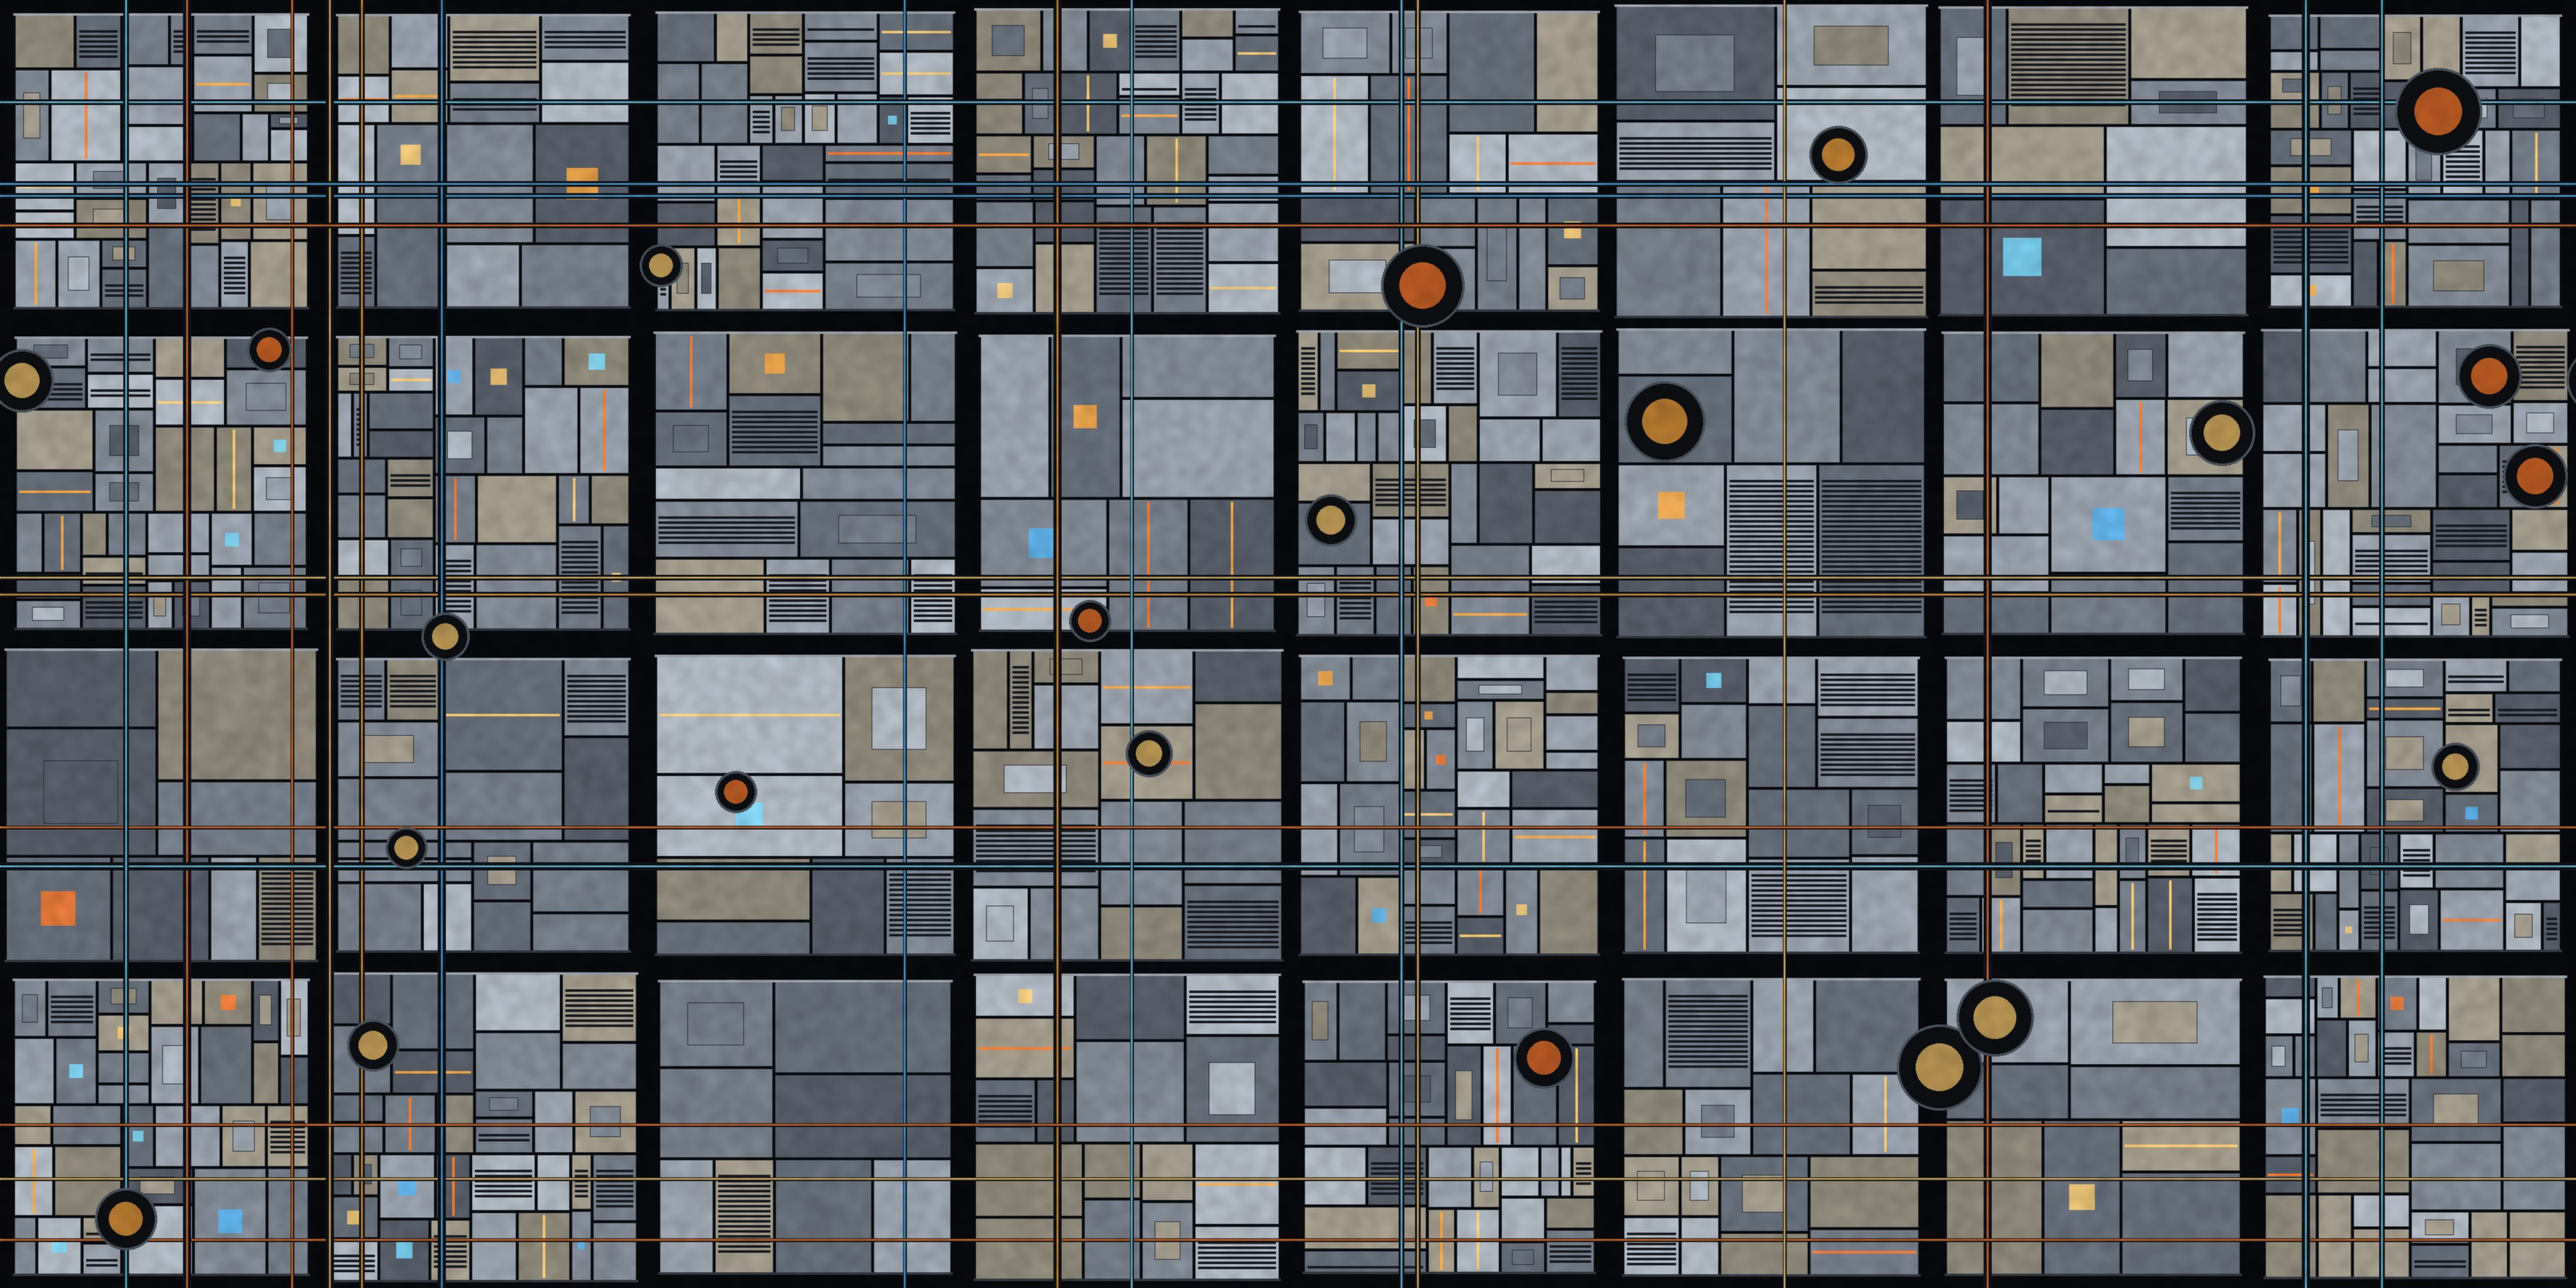
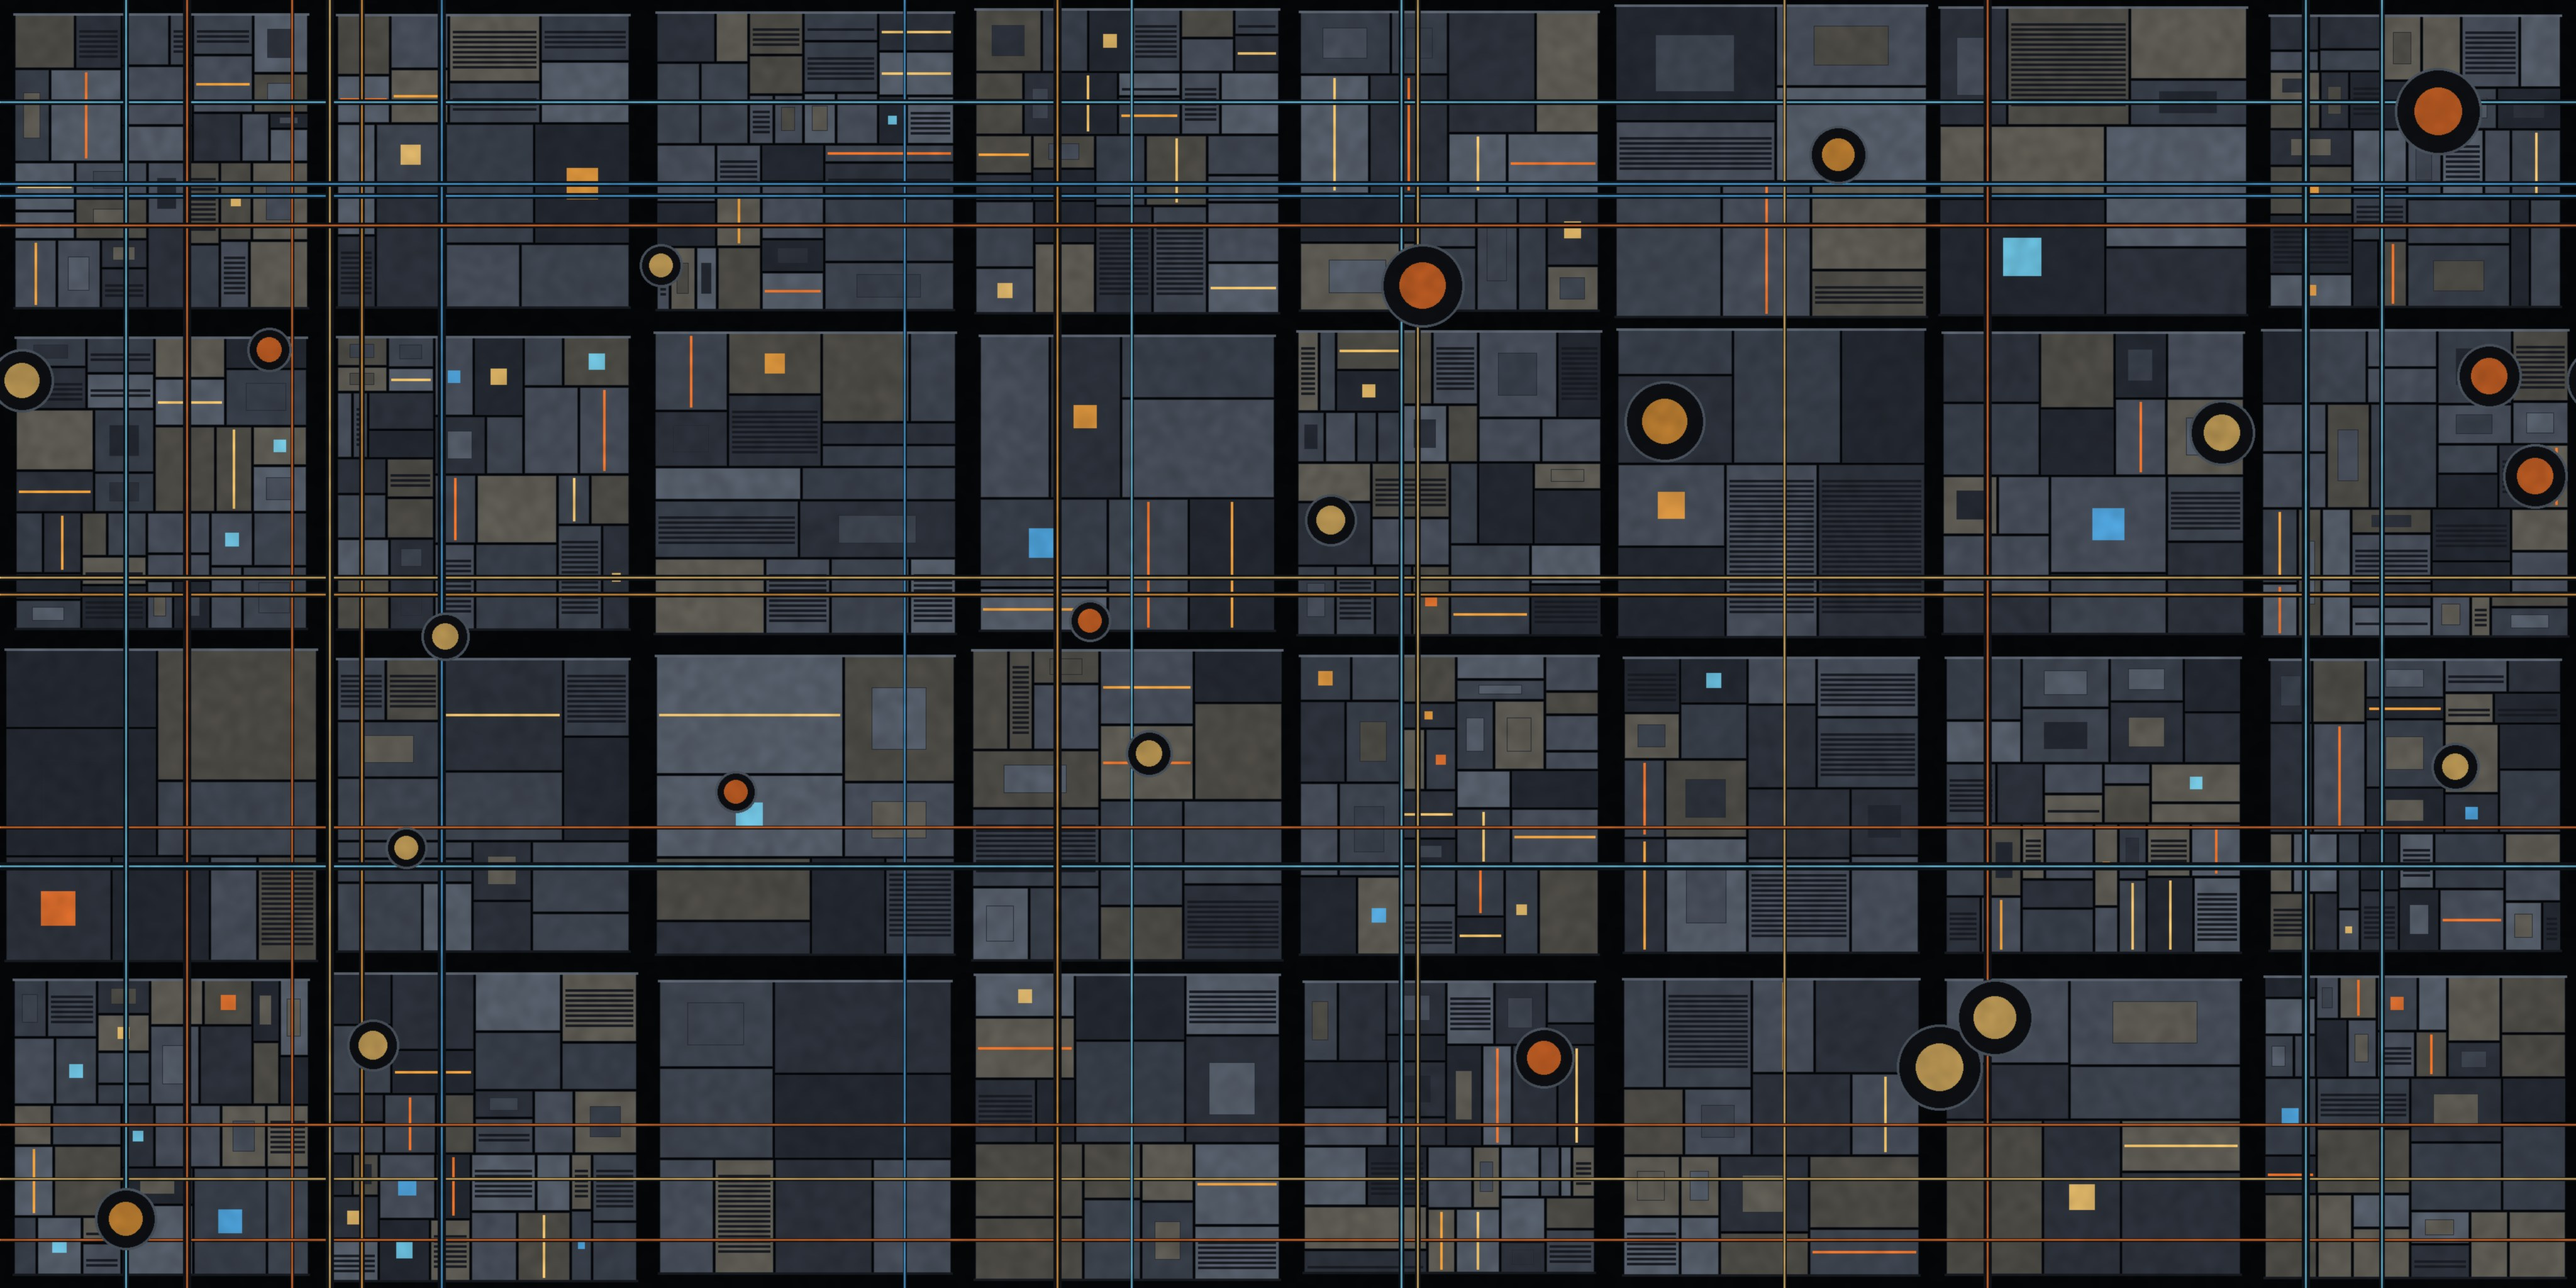
Breakout: Cybertron as geometry, not as a picture; letters keep only a thruster
You sent the reference and said the textures were all terrible. They were. What
makes that picture read as a machine world is SILHOUETTE - domes, stepped ring
terraces and towers standing proud of the sphere, catching a cold light and
throwing shadow, so the limb is a skyline instead of a smooth ball. No texture
can do that, which is why every attempt looked like a circuit board wrapped on
a ball.

So the surface now carries real geometry: a thousand plated blocks, 260 stacks,
900 lamp strips, eleven hub complexes of stepped terraces with lit rims round a
chunky tower, and four structural bands round the whole world. Placement is a
Fibonacci sphere jittered by a seeded generator, so the same world comes back
every run. Everything is built at unit radius and scaled with the sphere, so it
survives the radius solve and a resize. Three InstancedMesh calls carry the
thousand small pieces.

The drawn map is demoted to the plating between the structures and redrawn dark
gunmetal, and the scene's rim light goes from violet to cold steel-blue - violet
on bare metal is what made the last one look purple and plastic.

Letters lose the drone ring, at RJ's word: one thruster behind the glyph,
stretching and flickering as it flies, nothing else.

Verified: 22 detail groups scaled to the solved radius, 154k triangles, a 70 s
bot run with the boss up, no NaN and no console errors from the game.

diff --git a/games/resume-arkanoid.html b/games/resume-arkanoid.html
@@ -183,7 +183,7 @@ camera.lookAt(0, 2, 0);
 
 scene.add(new THREE.AmbientLight(0x8fb0d4, 1.75));   // was 0x4a6a8a @ 0.9 - letters read as grey
 const key = new THREE.DirectionalLight(0xffffff, 1.85); key.position.set(6,-4,14); scene.add(key);
-const rim = new THREE.PointLight(0x7c4dff, 1.9, 90); rim.position.set(-10, 12, 10); scene.add(rim);
+const rim = new THREE.PointLight(0x9ec8ff, 2.2, 90); rim.position.set(-10, 12, 10); scene.add(rim);
 // A warm fill from below so glyph faces are not lit from one side only. Extruded letterforms
 // with a single key light lose their whole shadowed half, which is most of why they looked flat
 // AND dim at the same time.
@@ -934,7 +934,7 @@ function raiderMesh(ch){
     color:0xff8a7a, emissive:0x5a1410, emissiveIntensity:0.9,
     roughness:0.35, metalness:0.35, flatShading:true }));
   g.add(letter);
-  const ch2 = droneChassis(); ch2.scale.setScalar(0.85); g.add(ch2); g.userData.chassis = ch2;
+  const ch2 = droneChassis(); ch2.scale.setScalar(0.9); g.add(ch2); g.userData.chassis = ch2;
   return g;
 }
 
@@ -983,7 +983,9 @@ function runRisers(dt){
    cool and open; divers pull the fog in and push it red. This is the
    "backgrounds that go with the moment" ask, driven by game state rather than by a soundtrack. */
 const MOOD = {
-  calm:  { fog: 0x16233a, dens: 0.009, rim: 0x7c4dff, rimI: 1.9 },
+  // The rim was violet, and violet on bare steel reads as plastic - it was what made the machine
+  // world look purple. Cold steel-blue, the light in the Cybertron reference. RJ 2026-09-06.
+  calm:  { fog: 0x16233a, dens: 0.009, rim: 0x9ec8ff, rimI: 2.2 },
   raid:  { fog: 0x2a1626, dens: 0.013, rim: 0xff5a6e, rimI: 2.6 }
 };
 const _fogC = new THREE.Color(), _rimC = new THREE.Color();
@@ -1448,17 +1450,13 @@ const haloPool = [], dronePool = [];
 // RJ: "upgrade the look of the letters to be cooler and more like flying drones." A chassis: a
 // dark ring round the letter, two engine glows, a running light. Pooled; a letter wears one
 // while it flies and sheds it as it locks into its slot. A diver keeps its own for good.
-let RING_GEO_D = null, RING_MAT_D = null;
+/* RJ 2026-09-06: "I don't like the rings around the letters - go back to the letters how they
+   just had a thruster." So: no chassis ring, no running light. One engine flame behind the
+   letter, stretched along its travel and flickering. */
 function droneChassis(){
-  if(!RING_GEO_D){ RING_GEO_D = new THREE.TorusGeometry(1.15, 0.09, 8, 28);
-    RING_MAT_D = new THREE.MeshStandardMaterial({ color:0x2a3440, emissive:0x101820, roughness:0.4, metalness:0.8, flatShading:true }); }
   const g = new THREE.Group();
-  const ring = new THREE.Mesh(RING_GEO_D, RING_MAT_D); g.add(ring); g.userData.ring = ring;
-  for(const sx of [-1.25, 1.25]){
-    const eng = sprite(0x7fe0ff, 0.9); eng.scale.set(0.9, 0.9, 1); eng.position.set(sx, -0.2, 0); g.add(eng);
-  }
-  const light = sprite(0xff5a4d, 0.9); light.scale.set(0.5, 0.5, 1); light.position.set(0, 1.35, 0.2); g.add(light);
-  g.userData.light = light;
+  const flame = sprite(0x8fd7ff, 0.95); flame.scale.set(1.0, 2.0, 1); flame.position.set(0, -1.15, 0);
+  g.add(flame); g.userData.flame = flame;
   return g;
 }
 function takeDrone(){ if(dronePool.length){ const d = dronePool.pop(); d.visible = true; return d; } const d = droneChassis(); board.add(d); return d; }
@@ -1493,7 +1491,10 @@ function updateTrail(L, M){
   L.drone.rotation.set(M.rotation.x * 0.5, t * 4 + L.ci, M.rotation.z * 0.5);
   const ds = M.scale.x / (CH_W * 0.92);
   L.drone.scale.setScalar(Math.max(0.35, ds));
-  L.drone.userData.light.material.opacity = 0.5 + 0.5 * Math.sin(t * 18 + L.ci);
+  const fl = L.drone.userData.flame;
+  fl.material.opacity = 0.7 + 0.3 * Math.sin(t * 24 + L.ci);
+  fl.scale.set(1.0, 1.7 + 0.6 * Math.sin(t * 19 + L.ci), 1);
+  fl.material.color.setHex(L.turret ? 0xffb08a : 0x8fd7ff);
 }
 
 // One letter's frame in flight. Returns true while it is still flying.
@@ -1596,6 +1597,113 @@ const ARMY_MAT = new THREE.MeshStandardMaterial({ color:0x3b4f69, map:HULL, emis
   roughness:0.6, metalness:0.55, flatShading:true, fog:false });
 const _w = new THREE.Vector3(), _w2 = new THREE.Vector3(), _q = new THREE.Quaternion(), Z_AXIS = new THREE.Vector3(0, 0, 1);
 
+/* CYBERTRON, IN GEOMETRY - RJ 2026-09-06, with the reference picture: "Cybertron is a super
+   advanced planet, mechanised."
+
+   A texture cannot do this. What makes that reference read as a machine world is SILHOUETTE:
+   domes and ring terraces and spires standing proud of the sphere, catching a cold light and
+   throwing shadow, so the limb is a jagged skyline rather than a smooth ball. So the surface
+   carries real geometry - about fourteen hundred structures - and the drawn map underneath is
+   demoted to the plating between them.
+
+   Everything is built at UNIT radius and scaled with the sphere, so it survives the radius
+   solve in placePlanet() and a resize. Three InstancedMesh calls carry the thousand small
+   pieces; the hubs and bands are a handful of real meshes. Placement is a Fibonacci sphere
+   (even coverage, no clumps at the poles) jittered by a SEEDED generator, so the same world
+   comes back every run and a screenshot is reproducible. */
+function seeded(n){ let s = n >>> 0; return () => (s = (Math.imul(s, 1664525) + 1013904223) >>> 0) / 4294967296; }
+function fibDirs(n){
+  const out = [], off = 2 / n, inc = Math.PI * (3 - Math.sqrt(5));
+  for(let i = 0; i < n; i++){
+    const y = i * off - 1 + off / 2, r = Math.sqrt(Math.max(0, 1 - y * y)), phi = i * inc;
+    out.push(new THREE.Vector3(Math.cos(phi) * r, y, Math.sin(phi) * r));
+  }
+  return out;
+}
+function buildPlanetDetail(){
+  const g = new THREE.Group();
+  const rnd = seeded(20260906);
+  const hull = new THREE.MeshStandardMaterial({ color:0x5d6675, metalness:0.92, roughness:0.34, flatShading:true, fog:false });
+  const dark = new THREE.MeshStandardMaterial({ color:0x39404b, metalness:0.88, roughness:0.5,  flatShading:true, fog:false });
+  const lit  = new THREE.MeshBasicMaterial({ color:0x8fdcff, fog:false });
+  const m4 = new THREE.Matrix4(), q = new THREE.Quaternion(), v = new THREE.Vector3(), sc = new THREE.Vector3();
+  const place = (mesh, i, d, w, dpt, h, lift) => {
+    q.setFromUnitVectors(Z_AXIS, d);
+    v.copy(d).multiplyScalar(1 + (lift || 0) + h / 2);
+    sc.set(w, dpt, h);
+    m4.compose(v, q, sc);
+    mesh.setMatrixAt(i, m4);
+  };
+
+  // ---- the mass of it: blocks, in two sizes, all over
+  const dirs = fibDirs(4200);
+  const BLOCKS = 1000;
+  const blocks = new THREE.InstancedMesh(new THREE.BoxGeometry(1, 1, 1), hull, BLOCKS);
+  for(let i = 0; i < BLOCKS; i++){
+    const d = dirs[Math.floor(rnd() * dirs.length)];
+    const w = 0.010 + rnd() * 0.030;
+    place(blocks, i, d, w, w * (0.45 + rnd() * 0.9), 0.005 + rnd() * rnd() * 0.045, 0);
+  }
+  blocks.instanceMatrix.needsUpdate = true; g.add(blocks);
+
+  // ---- spires and stacks: the things that break the horizon
+  const TOWERS = 260;
+  const tg = new THREE.CylinderGeometry(0.34, 0.5, 1, 6); tg.rotateX(Math.PI / 2);
+  const towers = new THREE.InstancedMesh(tg, dark, TOWERS);
+  for(let i = 0; i < TOWERS; i++){
+    const d = dirs[Math.floor(rnd() * dirs.length)];
+    const w = 0.008 + rnd() * 0.016;
+    place(towers, i, d, w, w, 0.022 + rnd() * 0.042, 0);   // shorter: they were reading as antennae
+  }
+  towers.instanceMatrix.needsUpdate = true; g.add(towers);
+
+  // ---- lights in the works: tiny emissive plates, the "advanced" read at distance
+  const LAMPS = 900;
+  const lamps = new THREE.InstancedMesh(new THREE.BoxGeometry(1, 1, 1), lit, LAMPS);
+  for(let i = 0; i < LAMPS; i++){
+    const d = dirs[Math.floor(rnd() * dirs.length)];
+    const w = 0.0016 + rnd() * 0.004;
+    place(lamps, i, d, w, w * (1 + rnd() * 6), 0.001, 0.004 + rnd() * 0.02);
+  }
+  lamps.instanceMatrix.needsUpdate = true; g.add(lamps);
+
+  // ---- the hubs: stepped ring terraces round a spire, the shape the reference is built from
+  const hubDirs = fibDirs(11);
+  for(let k = 0; k < hubDirs.length; k++){
+    const d = hubDirs[k], hub = new THREE.Group();
+    const R0 = 0.075 + rnd() * 0.075;
+    let z = 0;
+    for(let r = 0; r < 4; r++){                        // terraces, each smaller and higher
+      const rr = R0 * (1 - r * 0.21), hh = 0.006 + r * 0.004;
+      const cg = new THREE.CylinderGeometry(rr, rr * 1.04, hh, 36); cg.rotateX(Math.PI / 2);
+      const m = new THREE.Mesh(cg, r % 2 ? dark : hull); m.position.z = 1 + z + hh / 2; hub.add(m);
+      // a lit rim on the step, so the terracing reads at a distance
+      const ring = new THREE.Mesh(new THREE.TorusGeometry(rr, 0.0016, 6, 44), lit);
+      ring.position.z = 1 + z + hh; hub.add(ring);
+      z += hh;
+    }
+    // a stack, not a needle: the reference's hubs are chunky towers, and thin spires read as
+    // radio masts stuck on a ball
+    const sh = 0.05 + rnd() * 0.05;
+    const spire = new THREE.CylinderGeometry(0.022, 0.05, sh, 8); spire.rotateX(Math.PI / 2);
+    const sp = new THREE.Mesh(spire, hull); sp.position.z = 1 + z + sh / 2; hub.add(sp);
+    const cap = new THREE.Mesh(new THREE.SphereGeometry(0.024, 14, 12), lit);
+    cap.position.z = 1 + z + sh; hub.add(cap);
+    hub.quaternion.setFromUnitVectors(Z_AXIS, d);
+    g.add(hub);
+  }
+
+  // ---- structural bands: great rings round the whole world
+  for(let b = 0; b < 4; b++){
+    const band = new THREE.Mesh(new THREE.TorusGeometry(1.004, 0.005 + rnd() * 0.004, 8, 220), hull);
+    band.rotation.set(rnd() * Math.PI, rnd() * Math.PI, rnd() * Math.PI);
+    g.add(band);
+    const glow = new THREE.Mesh(new THREE.TorusGeometry(1.012, 0.0016, 6, 220), lit);
+    glow.rotation.copy(band.rotation); g.add(glow);
+  }
+  return g;
+}
+
 function buildPlanet(){
   planet = new THREE.Group();
   // The surface: a straight-down tile generated with the starfighter art pipeline (FLUX via
@@ -1612,15 +1720,17 @@ function buildPlanet(){
     // white, and a 0xe8eef6 tint over that washed the whole surface out to pale blue.
     // the map is machinery now, dark and its own colour: a near-white tint and a matte finish
     // both fought it. Metal, lit, not tinted.
-    map: pmap, normalMap: pnorm, normalScale: new THREE.Vector2(1.4, 1.4), color:0xb8c2cf,
-    emissive:0x0a0f16, roughness:0.62, metalness:0.55, fog:false }));
+    map: pmap, normalMap: pnorm, normalScale: new THREE.Vector2(1.5, 1.5), color:0x9aa6b6,
+    emissive:0x070b12, roughness:0.45, metalness:0.8, fog:false }));
   ground.rotation.z = Math.PI / 2;   // texture poles onto the spin axis, so the map streams past like a globe
   planet.add(ground);
   // the atmosphere: a bigger shell seen from inside, so the limb glows and the sky-side fades
   const air = new THREE.Mesh(new THREE.SphereGeometry(1.035, 64, 48), new THREE.MeshBasicMaterial({
-    color:0x2f6da8, transparent:true, opacity:0.10, side:THREE.BackSide, depthWrite:false, fog:false }));
+    color:0x8fc4f0, transparent:true, opacity:0.13, side:THREE.BackSide, depthWrite:false, fog:false }));
   planet.add(air);
-  planet.userData = { R: 100, ground, air };
+  const detail = buildPlanetDetail();
+  planet.add(detail);
+  planet.userData = { R: 100, ground, air, detail };
   scene.add(planet);
   if(!blastLight){ blastLight = new THREE.PointLight(0xffa040, 0, 80); scene.add(blastLight); }
   placePlanet();
@@ -1657,6 +1767,7 @@ function placePlanet(){
   planet.userData.R = R;
   planet.userData.ground.scale.setScalar(R);
   planet.userData.air.scale.setScalar(R);
+  planet.userData.detail.scale.setScalar(R);
   freshMatrices();
   army.forEach(placeUnit);
 }
